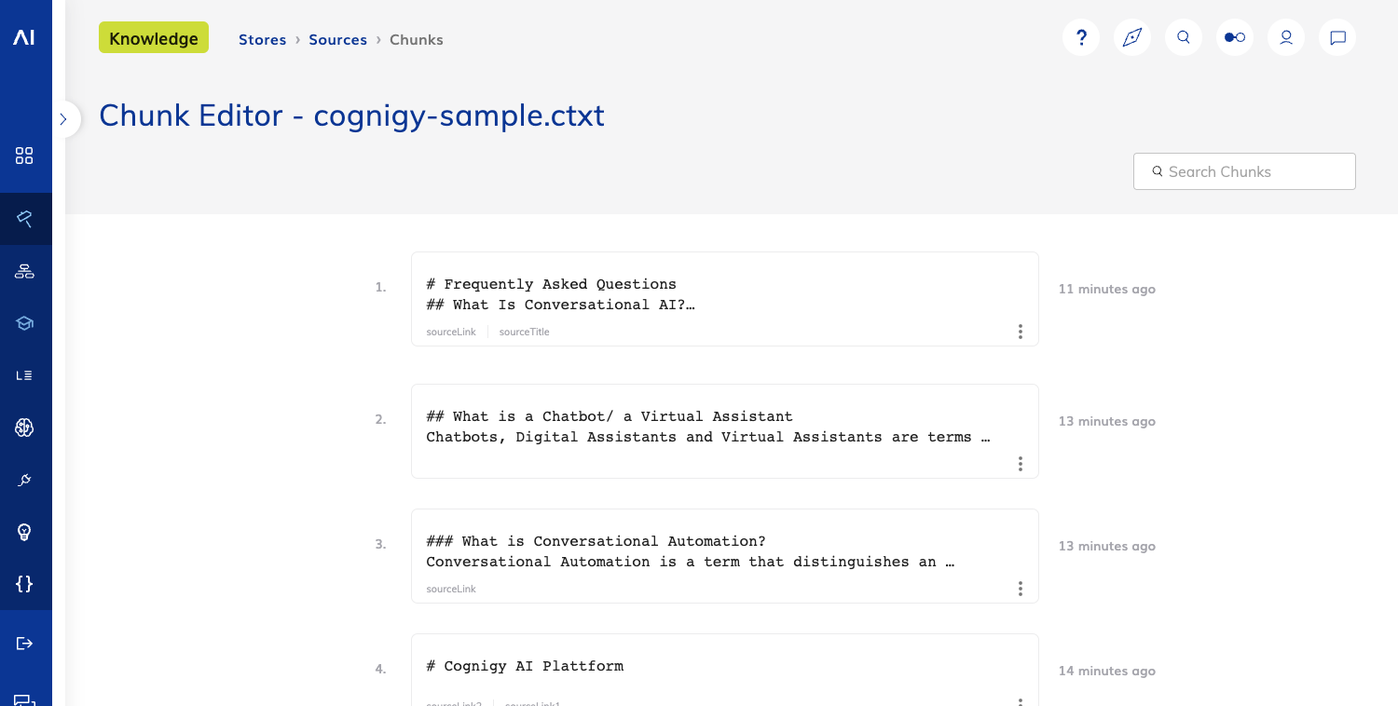
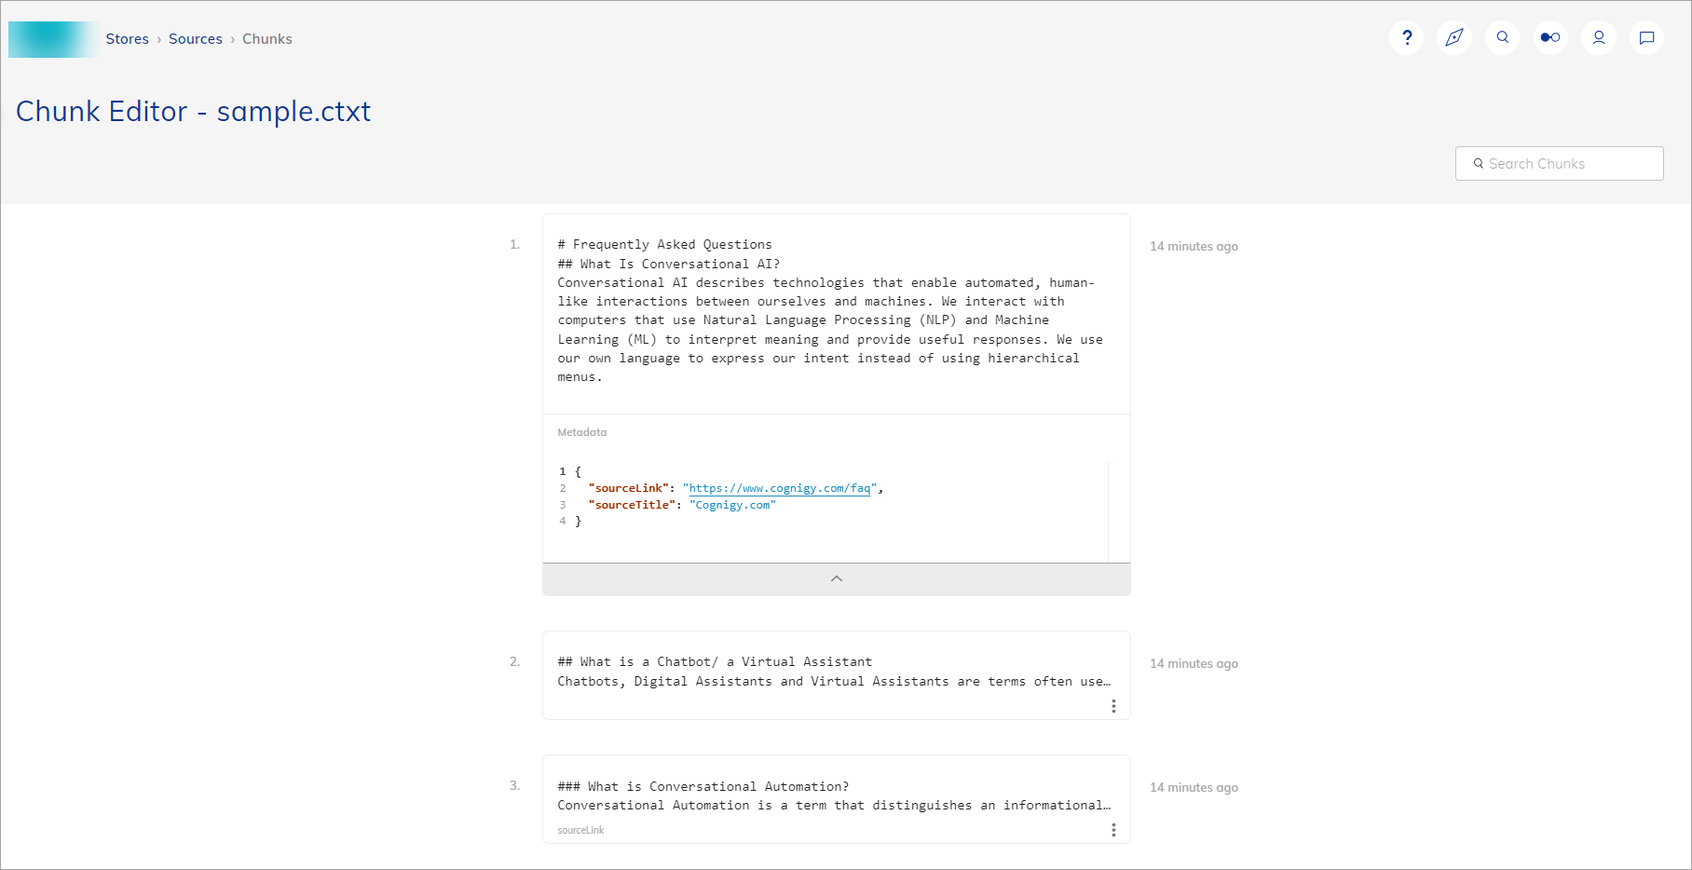
Knowledge AI updates

diff --git a/docs/en/docs/ai/knowledge-ai/knowledge-ai.md b/docs/en/docs/ai/knowledge-ai/knowledge-ai.md
@@ -9,198 +9,207 @@ hidden: false
 [![Version badge](https://img.shields.io/badge/Added in-v4.57(Beta)-purple.svg)](../../release-notes/4.57.md)
 
 !!! note
-    Our Knowledge AI functionality requires the usage of external AI model provides such as Microsoft. You are subject to the terms of those once you are using the feature. Cognigy cannot take responsibility for your use of third-party services, systems, or materials.
+    You are subject to the terms of those once you are using the feature. Cognigy cannot take responsibility for your use of third-party services, systems, or materials.
 
-Knowledge is a critical part when building modern virtual agents. In the current era of bots, our customers usually use [Intents]() and so-called [Default Replies]() in order to detect questions and respond with appropriate content based on the Default Replies. Crafting these Q&A pairs is time-consuming and requires a lot of maintenace effort. The future of bots will be different - and it starts right now! The Cognigy Knowledge AI solution allows our customers to upload their existing knowledge in the form of already existing documents like PDF files. Cognigy.AI will then learn how to extract meaningful information from those documents and will expose them to Flow designers via a new set of Flow Nodes. This functionality allows our customers to build knowledge based bots in minutes and get started way quicker.
+Knowledge AI is commonly used in Natural Language Processing (NLP) and Conversational AI to enhance the capabilities of virtual assistants, chatbots, and other AI-driven systems. The primary goal of Knowledge AI is to enable these systems to access and comprehend a vast amount of information from different formats, such as documents, articles, manuals, FAQs, and more.
+By accessing and understanding vast knowledge bases, these AI systems can provide more accurate, context-aware, and helpful responses to user queries.
 
-## Quickstart
+With the new Cognigy Knowledge AI solution, you no longer need to rely solely on [Intents](../nlu/nlu-overview/ml-intents.md) and [Default Replies](../nlu/nlu-overview/overview.md#default-replies) to identify user questions and provide relevant content based on predefined responses. Crafting these question-and-answer pairs can be time-consuming and labor-intensive, requiring ongoing maintenance efforts.
 
-This Quickstart guide aims to provide a solid step-by-step tutorial on how to get started with our Knowledge AI solution. It won't explain concepts nor will it contain detailed information on how things work - please have a look at the other sections of this document in order to learn about the details.
+Instead, Cognigy Knowledge AI technology allows you to upload your existing knowledge as documents,
+such as .pdf, .txt, .ctxt, and .docs files.
+This technology extracts meaningful information from these documents
+and makes it accessible to Flow designers via the Knowledge AI Nodes.
+This approach empowers you to build knowledge-based virtual agents quickly and effortlessly,
+bypassing the limitations of traditional intent-based systems
+and simplifying the process of creating sophisticated conversational experiences.
 
-### Setup LLMs
+## Prerequisites
 
-In order to leverage the power of the Cognigy Knowledge AI solution, we have to create two LLM resources in your project:
-- an Embedding model which will be used to encode the text of our documents into a numeric representation which is used for search
-- a generative AI model which will be used to extract and generate a response based on a users questions and the information from your documents
+Before using this feature, you need to create an account in one of the Knowledge AI Providers:
 
-1. Open the Cognigy.AI user interface.
-2. Go to **Build > LLM.**
-3. Click **+New LLM.**
-4. Select the **text-embedding-ada-002** model and provide a name - you can either select the **Azure OpenAI** or **OpenAI** variants.
-5. Click on **Save**.
+- [OpenAI](https://platform.openai.com/). You need to have a paid account or be a member of an organization that provides you access. Open your OpenAI user profile, copy the existing API Key, or create a new one and copy it.
+- [Microsoft Azure OpenAI](https://azure.microsoft.com/en-us/products/cognitive-services/openai-service). You need to have a paid account or be a member of an organization that provides you access. Ask your Azure Administrator to provide API Key, resource name, and deployment model name.
 
-    <figure>
-      <img class="image-center" src="{{config.site_url}}ai/knowledge-ai/images/llm-ada.png" width="90%" />
-    </figure>
+For the Knowledge Search case, you need only the `text-embedding-ada-002` model. However, if you intend to transform the Knowledge Search result and output it, you will also need an additional model from the **LLM Prompt Node & Search Extract Output Node** column in the [supported models](../resources/build/llm.md) list.
 
-6. You will now have to create a [Connection]() pointing either to Azure OpenAI or OpenAI. Click on the **+** button next to the dropdown.
+## Create a Knowledge Store
 
-    <figure>
-      <img class="image-center" src="{{config.site_url}}ai/knowledge-ai/images/azure-connection.png" width="90%" />
-    </figure>
+You can create a preconfigured knowlege store. To do this, follow these steps:
 
-7. Provide a name for your Connection, e.g. **Azure OpenAI** and provide your **API Key**. You can find the API Key in the **Azure OpenAI** section of the Azure portal.
-
-    <figure>
-      <img class="image-center" src="{{config.site_url}}ai/knowledge-ai/images/azure-portal-api-key.png" width="90%" />
-    </figure>
-
-8. Once you have saved the Connection, you will have to insert a **Resource Name**, **Deployment Name** and a mandatory **API Version** Cognigy.AI will use when interacting with the LLM. Please note that these will be different for you based on how you have named the resource as well as the deployments in your Azure account. Once you are done, the configuration should look similar to the following:
+1. Open the Cognigy.AI interface.
+2. In the left-side menu, select **Knowledge**. The knowledge widget will be opened.
+3. Continue following the widget instructions.
+4. Specify a unique name and select a model, which you want to use for the knowledge search case.
 
     <figure>
-      <img class="image-center" src="{{config.site_url}}ai/knowledge-ai/images/llm-ada-configured.png" width="90%" />
+      <img class="image-center" src="{{config.site_url}}ai/knowledge-ai/images/knowledge-ai-widget.png" width="100%" />
     </figure>
 
-You are now done with the setup for the first LLM - the **embedding model** which Cognigy.AI will use to encode the text of our documents. We have to create a second LLM for extracting and generating responses based on your knowledge. Since the second LLM is also Azure OpenAI based (in our example), configuration will be easier as we will be able to reuse the Azure OpenAI Connection we have already created.
+5. Click **Configure Connection** and enter credentials for the model:
 
-1. Go back to **Build > LLM.**
-2. Click **+New LLM.**
-3. Select the **text-davinci-003** model and provide a name.
-4. Click on **Save**.
-5. Select the **Azure OpenAI** Connection which we have created when configuring the first LLM.
-6. Insert the **Resource Name**, **Deployment Name** and a mandatory **API Version**. Once you are done, the configuration should look similar to the following:
+    === "Microsoft Azure OpenAI"
+        - **Connection name** — create a unique name for your connection.<br>
+        - **apiKey** — add an [Azure API Key](https://learn.microsoft.com/en-us/azure/cognitive-services/openai/quickstart?tabs=command-line&pivots=rest-api#retrieve-key-and-endpoint). This value can be found in the **Keys & Endpoint** section when examining your resource from the Azure portal. You can use either `KEY1` or `KEY2`.<br>
+        - **resourceName** — add a [resource name](https://learn.microsoft.com/en-us/azure/cognitive-services/openai/how-to/create-resource?pivots=web-portal#create-a-resource). This value can be found under **Resource Management > Deployments** in the Azure portal or alternatively under **Management > Deployments** in Azure OpenAI Studio.<br>
+        - **deploymentName** — add a [model name](https://learn.microsoft.com/en-us/azure/cognitive-services/openai/how-to/create-resource?pivots=web-portal#deploy-a-model).<br>
+        - **apiVersion** — add an [API version](https://learn.microsoft.com/en-us/azure/cognitive-services/openai/reference#rest-api-versioning). The API version to use for this operation in the `YYYY-MM-DD` format.<br>
+    === "OpenAI"
+        - **Connection name** — create a unique name for your connection.<br>
+        - **apiKey** — add an API Key from your OpenAI account. You can find this key in the [User settings](https://help.openai.com/en/articles/4936850-where-do-i-find-my-secret-api-key) of your OpenAI account.<br>
 
-    <figure>
-      <img class="image-center" src="{{config.site_url}}ai/knowledge-ai/images/davinci-configured.png" width="90%" />
-    </figure>
+6. Click **Next**.
+7. On the new page, upload the following file in the `.ctxt` format:
 
-This part of the configuration does not need to be touched again. Let's now navigate to the **Project Settings** of your project to continue.
+??? info "Sample"
+       
+    ```txt
+    `version: 1`
+    `sourceTitle: Cognigy`
+    `sourceLink: www.cognigy.com`
+   
+    # Frequently Asked Questions
+    ## What Is Conversational AI?
+    Conversational AI describes technologies that enable automated, human-like interactions between ourselves and machines. We interact with computers that use Natural Language Processing (NLP) and Machine Learning (ML) to interpret meaning and provide useful responses. We use our own language to express our intent instead of using hierarchical menus.
+    `sourceTitle: Cognigy.com`
+    `sourceLink: https://www.cognigy.com/faq`
+   
+    ## What is a Chatbot/ a Virtual Assistant
+    Chatbots, Digital Assistants and Virtual Assistants are terms often used interchangeably to describe a user interface, i.e. a chat box on a website or a smart speaker, as well as the intelligence that drives the automated conversation. Chatbot is a general term but is often reserved for static interactions, such as a basic Q & A. “Digital Assistant“ or “Virtual Assistant“ is used to describe more complex interactions between a user, a sophisticated reasoning engine and back-end systems.
+   
+    ### What is Conversational Automation?
+    Conversational Automation is a term that distinguishes an informational experience from an experience that accomplishes an action on behalf of a user. Conversational automation walks a user through the steps required to check order status, initiate a password reset, file a support ticket or make a reservation, for example.
+    `sourceLink: https://www.cognigy.com/faq`
+   
+    # Cognigy AI Plattform
+    `sourceLink1: https://www.cognigy.com/platform/cognigy-ai`
+    `sourceLink2: https://www.cognigy.com/`
+   
+    ## Plug-and-Play with Your Contact Center Ecosystem
+    ### Pre-build Connections
+    Upgrading your tech stack with conversational AI can be as fast and effortless as your service experiences. `Cognigy.AI` seamlessly layers in your contact center tech stack, bringing together data across systems to drive resolutions and smoother customer journeys. Leverage an extensive, growing library of prebuilt backend and channel connectors.
+    ### Tailored Connections
+    Or develop your tailored integration fast using our powerful Extension Framework
+    `image: https://www.cognigy.com/hs-fs/hubfs/Integration%20Architecture-2023.07.png?width=950&height=427&name=Integration%20Architecture-2023.07.png`
+    `date: 01/01/2023`
+   
+    ## Turnkey Contact Center Connectivity
+    Readily embed Cognigy.AI into your contact center infrastructure– phone, digital, live chat, agent desktop, and more.
+    `sourceLink: https://www.cognigy.com/platform/cognigy-ai`
+   
+    ### One-Click Backend Integrations
+    With our built-in Marketplace, you're just a few clicks away from connecting back-office systems to automate processes and speed up resolutions.
+   
+    #### 25+ Prebuilt Channel Connectors
+    Build your workflow once and populate it on any channel (web, phone, messaging) within seconds to enable consistent experiences everywhere
+    `last_edited: 01/02/2023`
+   
+    Cognigy.AI `addedLink: www.cognigy.com` - Upgrading your tech stack with conversational AI can be as fast and effortless as your service experiences. Cognigy.AI seamlessly layers in your contact center tech stack, bringing together data across systems to drive resolutions and smoother customer journeys. Leverage an extensive, growing library of prebuilt backend and channel connectors.
+    Or develop your tailored integration fast using our powerful Extension Framework.
+    ```
 
-### Activate GenAI features
+Complete installation and start investigating knowledge AI project structure.   
 
-You will now have to activate **Generative AI capabilities** for your project.
+## Investigate a Knowledge AI project 
 
-1. Navigate to the **Project Settings** page of your project.
-2. Open the **Generative AI Settings** section.
-3. Click on the **Enable Generative AI Features** button.
-4. Scroll through the list and select the **Davinci** model for **LLM Prompt Node** and the **ADA (embedding)** model for **Knowledge Search**. Your project settings should look like the following:
+Working with Knowledge AI involves two phases similar to Intents. The first phase is ingesting and preparing knowledge, and the second phase is querying the knowledge during runtime once it's fully integrated into Flows.
 
-    <figure>
-      <img class="image-center" src="{{config.site_url}}ai/knowledge-ai/images/project-settings.png" width="90%" />
-    </figure>
+**First phase:**
 
-5. Ensure that you click the **Save** button.
+1. **Raw Information Upload**. Cognigy.AI receives access to raw information via uploaded .pdf, .txt, .ctxt, or .docs files that contain knowledge.
+2. **Knowledge Chunk Extraction**. A collection of tools that extracts text and metadata from the raw information. Chunks are accessible for modification in the Chunk Editor.
+3. **Vectorization**. The text of Knowledge Chunks is encoded into numeric representations using an Embedding machine learning model. Embeddings are high-dimensional vectors that encode word meaning and similarity into numeric representations. Cognigy.AI stores these vectors in a specialized internal database for quick access during runtime.
 
-Perfect 🎉 - we can now finally start to upload Knowledge to your Cognigy.AI project.
+**Second phase:**
 
-### Knowledge
+1. **Knowledge Base Querying**. During runtime, the Knowledge AI system can query the structured knowledge base to provide accurate and contextually appropriate responses to user queries.
+2. **Knowledge-based Virtual Agents Building**. Virtual agents utilize the knowledge stored in the Knowledge Base to engage in more sophisticated and intelligent conversations with users. These agents can provide context-aware responses based on the information extracted from the Knowledge Sources.
 
-In the sidebar of Cognigy.AI you should be able to see a new section under **Build** called **Knowledge**:
+### Knowledge AI Management
+
+Knowledge AI management includes a Knowledge Store for organizing many Knowledge Sources, with Chunks extracted and edited using the Chunk Editor to enable accurate responses by the system.
+
+#### Knowledge Store
+
+A Knowledge Store is a container that holds and organizes multiple Knowledge Sources. It provides a centralized and structured environment for managing and categorizing various sources of knowledge.
+The Knowledge Store helps streamline the knowledge management process by grouping related Knowledge Sources, making it easier to organize, search, and retrieve relevant information during runtime.
 
 <figure>
-  <img class="image-center" src="{{config.site_url}}ai/knowledge-ai/images/knowledge.png" width="90%" />
+    <img class="image-center" src="{{config.site_url}}ai/knowledge-ai/images/knowledge-store.png" width="100%" />
 </figure>
 
-Click on it in order to navigate to the **Knowledge Stores** page. If everything was configured properly during setting up the LLMs as well as activating generative AI features, you should now see the following screen:
+#### Knowledge Source
+
+Knowledge Source is the result of transforming various types of files into a structured and accessible format, containing valuable knowledge in the form of user manuals, articles, FAQs, and other relevant information.
+
+By breaking down the content of these files into smaller units known as chunks,
+the Knowledge Source becomes a specific collection of organized and structured knowledge.
+
+In addition to the main content, you can include other types of information, such as images and links, in the metadata.
+
+Each Knowledge Source must contain no more than 2000 characters.
 
 <figure>
-  <img class="image-center" src="{{config.site_url}}ai/knowledge-ai/images/knowledge-stores.png" width="90%" />
+    <img class="image-center" src="{{config.site_url}}ai/knowledge-ai/images/knowledge-source.png" width="100%" />
 </figure>
 
-!!! warning "Configuration mistake"
-    If you can't click a **+New Knowledge Store** button on the Knowledge Stores page, but even see a **Enable in Settings** button, then you have not properly followed the steps above. It is important that you create the two required LLMs (ada-model for text embeddings as well as the generative-ai davincii model) as well as that you activate generative AI features in the Project Settings of your project.
+#### Chunk 
 
-Let's get started and upload some knowledge!
+Chunk is a unit of knowledge extracted from each Knowledge Source. Chunks are smaller, self-contained pieces of information that the Knowledge AI system can process and manage effectively.
 
-1. Click on **+New Knowledge Store** in order to create a new group of knowledge.
-2. Provide a **Name** - like "Sample" - in the sidbar and click on **Save**.
-3. Drag and drop [this file](./images/cognigy-sample.ctxt) onto the large background:
+For instance, a chunk can represent a single paragraph, a sentence, or even a smaller unit of text from a document. By dividing the content into chunks, the system gains better granularity, enabling it to analyze and respond to user queries more efficiently. The extraction of knowledge into chunks enhances the system's ability to match the right information to user questions, resulting in more accurate and contextually appropriate responses.
 
-    <figure>
-      <img class="image-center" src="{{config.site_url}}ai/knowledge-ai/images/upload.png" width="90%" />
-    </figure>
-
-4. Cognigy.AI will now process the uploaded document and extract **Chunks** from it. You will see the status in the [Task Manager]() as well as on the actual **Knowledge Source** list item.
-5. Click on the list item once the file was completely processed - you will now see the **Chunks** that Cognigy.AI has extracted in the **Chunk Editor**.
+Metadata can contain no more than 20 key-value pairs per chunk and supports simple data types,
+such as, number, string, boolean. 
 
 <figure>
-  <img class="image-center" src="{{config.site_url}}ai/knowledge-ai/images/chunk-editor.png" width="90%" />
+    <img class="image-center" src="{{config.site_url}}ai/knowledge-ai/images/chunk.png" width="100%" />
 </figure>
 
-Our Chunk Editor allows our customers to fine-tune their Knowledge within our platform. It is often hard or even impossible to change the content of source-documents especially if they have not been specifically crafted for ingestion into a system like Knowledge AI. More information on the Chunk Editor in the sections below.
+#### Chunk Editor
 
-### Query Knowledge AI
+A Chunk Editor is a tool that helps you to interact with and manage the individual chunks. 
+The Editor provides a user-friendly interface that enables you to manipulate the content within each chunk.
+Users can modify the text, add new information, delete sections,
+or rearrange the order of content to ensure the accuracy and relevance of the knowledge.
 
-The last step in our Quickstart guide is to query the Knowledge AI solution during [Flow]() execution.
+<figure>
+    <img class="image-center" src="{{config.site_url}}ai/knowledge-ai/images/chunk-editor.png" width="100%" />
+</figure>
+
+## Query Knowledge AI
 
 1. Navigate to **Build > Flows** and create a new Flow.
-2. A **Search Extract Output** Flow Node to your Flow.
-3. Open the Flow Node and select which **Knowledge Store** the Flow Node should use and click **Save Node**.
+2. In the **Flow** editor, add a **Search Extract Output** Node.
+3. In the **Node** editor, and select the knowledge store, which you created recently.
+4. Select one of the following modes:
+    - **Search & Extract & Output** — performs a knowledge search, extracts key points, and outputs the result as text or adaptive card. For this mode, you need models from the [list of supported providers](../resources/build/llm.md) that cover both the `LLM Prompt Node & Search Extract Output Node` and `Knowledge Search` cases.
+    - **Search & Extract** — performs a knowledge search, extracts key points, but no automatic output. For this mode, you need models from the [list of supported providers](../resources/build/llm.md) that cover both the `LLM Prompt Node & Search Extract Output Node` and `Knowledge Search` cases.
+    - **Search only** — performs a knowledge search and retrieves information without extraction or automatic output. For this mode, you only the `text-embedding-ada-002` model.
 
-    <figure>
-      <img class="image-center" src="{{config.site_url}}ai/knowledge-ai/images/configure-search-extract-output.png" width="90%" />
-    </figure>
+     <figure>
+       <img class="image-center" src="{{config.site_url}}ai/knowledge-ai/images/configure-search-extract-output.png" width="100%" />
+     </figure>
+   
+5. Click **Save Node**. 
+6. Proceed to the Interaction Panel and send the `Can Cognigy connect to a Contact Center?` question.
 
-4. Open the Interaction Panel and type in the question "Can Cognigy connect to a Contact Center?" and send it.
-5. You should get a response which was crafted based on the ingested Knowledge!
+You will receive a response generated from the absorbed Knowledge.
 
-Congratulations 🔥 - you are done with our Quickstart! Go ahead and read through the other sections on this page to learn more about our Knowledge AI solution.
-
-
-## Overview
-Working with the Knowledge AI has two phases similar to working with Intents - Knowledge needs to be ingested & prepared for usage and will then be queried once fully integrated in [Flows]() during runtime.
-
-The following steps happen during "ingestions":
-
-1. **Raw information is provided**
-
-    In this step Cognigy.AI receives access to raw information for instance by receiving your PDFs that contain your knowledge.
-
-2. **Knowledge Chunk extraction**
-
-    In this step a collection of tools is being used to extract text as well as meta-data from your raw information. Chunks have a maximum length of **2000 characters** and will be accessible for modification in our Chunk Editor.
-
-1. **Vectorisation**
-
-    In this step the text of your Knowledge Chunks will be encoded into numbers by leveraging an Embedding machine learning model. Embeddings are high-dimensional vectors which encode the meaning and similarity of words into a numeric representation. Cognigy.AI will store those vectors in a specialized database internally.
-
-Todo: Explain "query steps + add a diagram showing those steps mentioned above"
-
-## Manage Knowledge
-
-### Knowledge Stores
-Todo
-
-- explain why we have Knowledge Stores
-- explain the limitations (how many you can have right now)
-
-### Knowledge Sources
-Todo
-
-- explain why we have Knowledge Sources
-- explain meta-data
-- give an overview of the different types of sources (mention CLI?)
-- explain the limitations (how many sources you can have; which file formats are supported; whats coming)
-
-### Chunk Editor
-Todo
-
-- explain what the Chunk Editor is
-- explain why the Chunk Editor is so important (other solutions: black box - our solution: full transparency)
-- explain meta-data
-
-## Search, Extract & Output
-Todo
-
-- more details about the search extract output Flow Node
+To learn more about the Search Extract Output Node, refer to the [related article](../flow-nodes/other-nodes/search-extract-output.md).
 
 ## FAQ
 
-Todo - compile a list of FAQs
+**Q1**: Will Knowledge AI resources be part of Snapshots?
 
-**Q1**: When will Knowledge AI be available publicly?
+**A1**: Yes, we are working on adding Knowledge Stores, Sources & Chunks, including meta-data, to Cognigy Snapshots.
 
-**A1**: ???
+**Q2**: Will Knowledge AI be free of charge?
 
-**Q2**: Will Knowledge AI resources be part of Snapshots?
-
-**A2**: Yes, we are working on adding Knowledge Stores, Sources & Chunks including meta-data to Cognigy Snapshots.
-
-**Q3**: Will Knowledge AI be free of charge?
-
-**A3**: No. We will provide pricing information until the end of August.
+**A2**: No, we will provide pricing information by the end of August.
 
 ## More information
 
+- [Search Extract Output Node](../flow-nodes/other-nodes/search-extract-output.md)
 - [LLM](../resources/build/llm.md)
 - [Generative AI](../generative-ai.md)

diff --git a/docs/en/docs/ai/flow-nodes/other-nodes/search-extract-output.md b/docs/en/docs/ai/flow-nodes/other-nodes/search-extract-output.md
@@ -56,7 +56,7 @@ For this mode, select models from the [list of supported providers](../../resour
 
 #### Search only
 
-Performs a knowledge search and retrieve information without extraction or automatic output.
+Performs a knowledge search and retrieves information without extraction or automatic output.
 
 In the Search only mode, the following steps are involved:
 

diff --git a/docs/en/docs/ai/resources/build/llm.md b/docs/en/docs/ai/resources/build/llm.md
@@ -92,6 +92,7 @@ The model will be deleted from the list.
 ## More information
 
 - [Generative AI](../../generative-ai.md)
+- [Knowleage AI](../../knowledge-ai/knowledge-ai.md)
 
 
 
